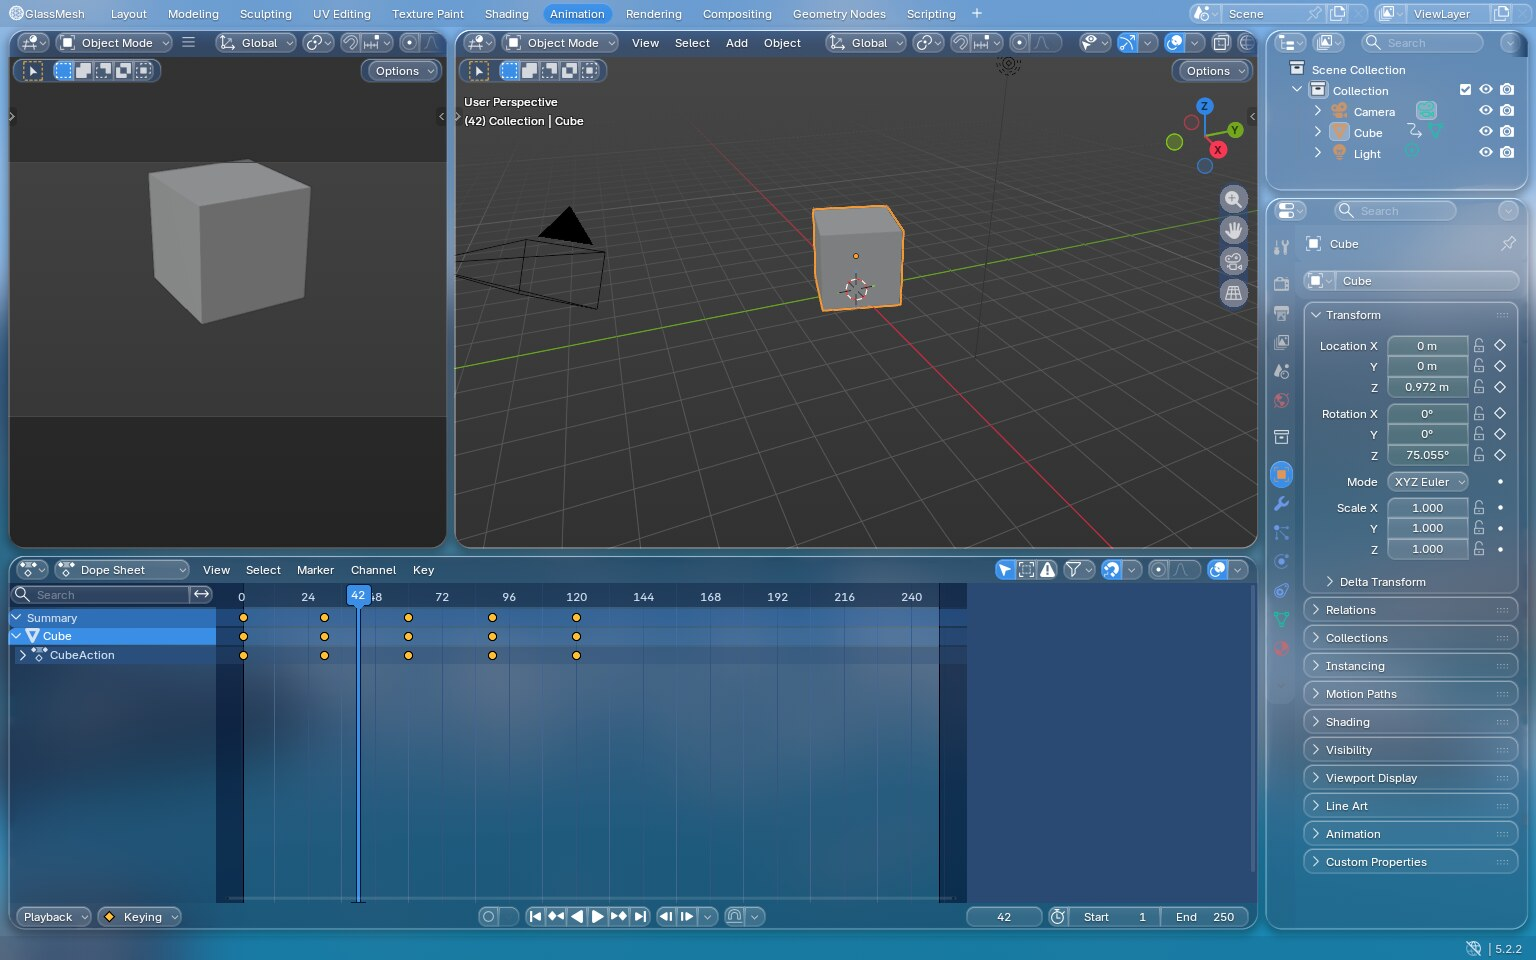
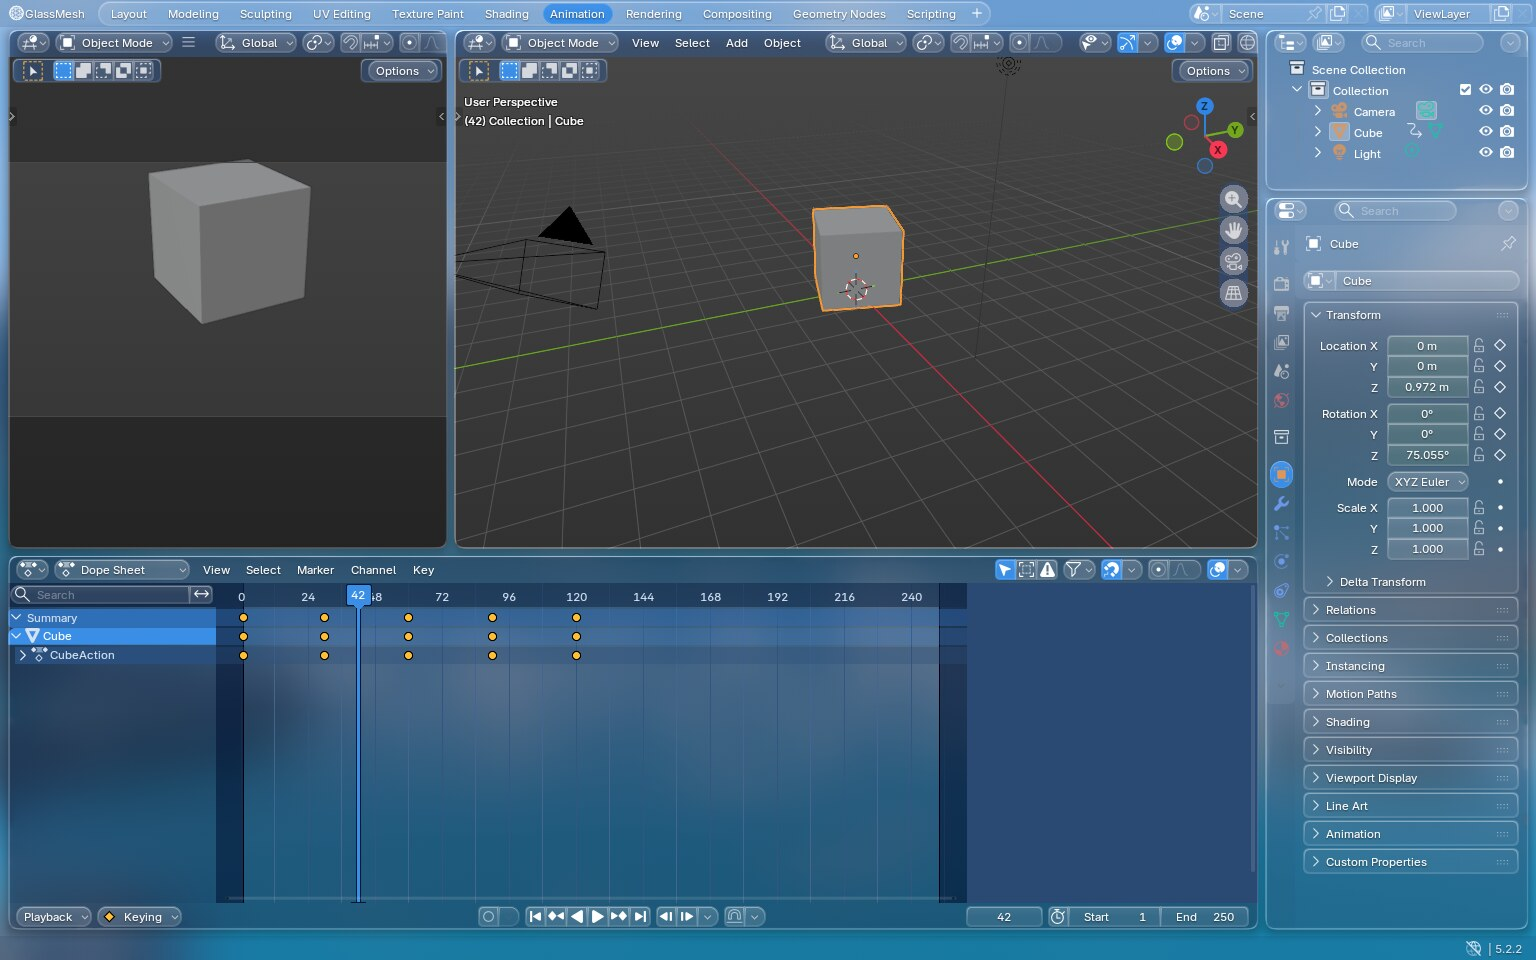
GlassMesh: Document the fourth design pass
Claude-Session: https://claude.ai/code/session_01L2QAqNNqWKW6my8jZ25rcy

Changed region(s): [[0.0938, 0.0, 0.625, 0.0625], [0.9688, 0.0312, 1.0, 0.0625], [0.8125, 0.0312, 0.8438, 0.0625]]

diff --git a/GLASSMESH_NOTES.md b/GLASSMESH_NOTES.md
@@ -19,7 +19,7 @@ sharper and faster). The viewports show Blender's default scenes on a neutral ba
 | ![Animation](docs/glassmesh/animation.jpg) | ![Sculpting](docs/glassmesh/sculpting.jpg) |
 | Animation | Sculpting |
 | ![Frosted menu](docs/glassmesh/frosted_menu.jpg) | ![Preferences](docs/glassmesh/preferences.jpg) |
-| Frosted menu over the 3D viewport | Preferences, with switches and the Glass settings |
+| Frosted menu over the 3D viewport | Preferences over the main window, its glass shows it |
 | ![About](docs/glassmesh/about.jpg) | ![Glass off](docs/glassmesh/glass_off_blender_dark.jpg) |
 | About GlassMesh | Glass effect off + Blender Dark preset = classic look |
 
@@ -52,7 +52,8 @@ sharper and faster). The viewports show Blender's default scenes on a neutral ba
   a region's alpha), `GPU_SHADER_2D_GLASS_WALLPAPER` (draws and pre-blurs the wallpaper) and
   `GPU_SHADER_2D_GLASS_CARD` (an editor as a pane of glass: drop shadow, body with vibrancy,
   refraction and a lit bevel, and the edge with the specular rim and rounded corners).
-- `shaders/gpu_shader_2D_widget_base.bsl.hh` – rim highlight and sheen for all widgets.
+- `shaders/gpu_shader_2D_widget_base.bsl.hh` – rim highlight, sheen and continuous (superellipse)
+  corners for glass widgets.
 - `GPU_shader_builtin.hh`, `intern/gpu_shader_builtin.cc`, `CMakeLists.txt` – registration.
 
 **3D viewport** (`source/blender/draw/engines/overlay/`) – content stays opaque (the see-through
@@ -66,7 +67,8 @@ background of test builds was removed: `TH_BACKGROUND_GLASS_LEGACY` in `DNA_them
 **Window compositing** (`source/blender/windowmanager/`)
 
 - `intern/wm_draw_glass.cc` (new) – window capture and live blurred backdrop per region, the
-  editors' glass cards (shadows and bodies) before the editors are drawn.
+  editors' glass cards (shadows and bodies) before the editors are drawn, and what is behind each
+  window (a frosted copy of the parent window for child windows, the wallpaper on the desktop).
 - `intern/wm_draw.cc` – draws the frosted window background and the glass cards, blends
   translucent editors over them, and draws the live frosted backdrop under overlapping regions
   (headers, tool-bars, side-bars) and floating regions (menus, popups, tool-tips).
@@ -76,8 +78,8 @@ background of test builds was removed: `TH_BACKGROUND_GLASS_LEGACY` in `DNA_them
 **Interface drawing** (`source/blender/editors/`)
 
 - `include/UI_glass.hh` (new) – glass settings (radius, blur radius, rim/sheen strength) and helpers.
-- `interface/interface_widgets.cc` – rim & sheen defaults, pill tabs, tool tiles, on/off switches,
-  no double highlights on multi-pass widgets.
+- `interface/interface_widgets.cc` – rim & sheen defaults, continuous corners, pill tabs, square
+  tool tiles, on/off switches, accent hover in menus, no double highlights on multi-pass widgets.
 - `interface/interface_layout.cc`, `include/UI_interface_layout.hh`, `include/UI_interface_c.hh` –
   which checkboxes are drawn as switches (`BUT_GLASS_SWITCH`).
 - `interface/interface_draw.cc` – `draw_roundbox_4fv_glass()`, all 12 widget parameters uploaded.
@@ -87,7 +89,11 @@ background of test builds was removed: `TH_BACKGROUND_GLASS_LEGACY` in `DNA_them
 - `interface/resources.cc` – translucent (pre-multiplied) region background clears with glass.
 - `screen/screen_draw.cc`, `screen/screen_intern.hh` – the editors' glass edges (rounded corners
   and specular rim) instead of the flat gaps, larger corner radius.
-- `screen/area.cc` – margins around the glass cards at the window edges and below the top bar.
+- `screen/area.cc` – margins around the glass cards at the window edges and below the top bar,
+  also in windows with a single editor, overflow hints that fade into frost.
+- `include/ED_screen.hh` – `ED_screen_glass_cards_visible()`.
+- `interface/interface.cc` – the glass capsule behind the top bar's workspace tabs.
+- `space_file/file_draw.cc` – translucent rows and column header in the file browser.
 - `space_outliner/outliner_draw.cc` – pill shaped row highlights, no row stripes with glass.
 - `space_view3d/view3d_gizmo_navigate.cc` – glass circles behind the navigation buttons.
 - `space_node/node_intern.hh`, `space_node/node_draw.cc` – rounder node corners and a glass rim
@@ -240,13 +246,17 @@ These can only be changed by you, on github.com:
    and node canvas must never show the wallpaper.
 8. **macOS fonts:** on a fresh start the interface should use the system font (SF Pro). If it looks
    wrong, clear *Preferences > Interface > Text Rendering > Interface Font*.
-9. **Other editors:** Outliner, Properties, node editors, Dope Sheet/Graph Editor, Text Editor,
+9. **Windows behind windows:** open the preferences and move them over the 3D viewport and the
+   properties editor: their glass should take the colors of what is behind them, and follow
+   changes in the main window (orbit the view). On Wayland this is expected not to work (no
+   window positions).
+10. **Other editors:** Outliner, Properties, node editors, Dope Sheet/Graph Editor, Text Editor,
    Preferences window, file browser. Look for readability and drawing glitches.
-10. **HiDPI / scaling:** *Resolution Scale* 1.0 and 2.0, a Retina/4K display, several windows,
+11. **HiDPI / scaling:** *Resolution Scale* 1.0 and 2.0, a Retina/4K display, several windows,
     resizing windows.
-11. **Files:** open and save `.blend` files and make sure they still work in official Blender 5.2
+12. **Files:** open and save `.blend` files and make sure they still work in official Blender 5.2
     (and the other way round).
-12. **Desktop integration:** *Preferences > System > Operating System Settings > Register* (Linux
+13. **Desktop integration:** *Preferences > System > Operating System Settings > Register* (Linux
     and Windows), then check the `.blend` file association, the dock/taskbar icon and window
     grouping. **Windows:** taskbar pinning and `glassmesh-launcher.exe`.
 
@@ -256,3 +266,6 @@ These can only be changed by you, on github.com:
   the top bar's empty space, and the File/Edit/... menus in the native menu bar.
 - Regenerating the macOS `Assets.car` in Xcode from `glassmesh_logo.svg`.
 - Offering to import settings from a regular Blender installation on first start.
+- The real desktop behind the window (DECISIONS.md #76): a transparent window with the system's
+  own blur (`NSVisualEffectView` on macOS, DWM backdrops on Windows, ARGB + compositor on Linux),
+  the frame drawn with alpha instead of the wallpaper. Needs testing on each system.

diff --git a/DECISIONS.md b/DECISIONS.md
@@ -302,3 +302,42 @@ glass.
     (72% instead of 81%) with a more vivid blur behind and a deeper shadow. Panels without a
     header (like the properties editor's context path) drew the editor color fully opaque, with
     glass they use the panel glass instead.
+
+## Fourth pass: polish
+
+The third pass was judged "pretty good". Still to fix: the timeline and the preferences looked
+more like Mica than frosted glass, a dark shadow at the top right of the outliner, tool buttons
+that looked squashed instead of being squircles, and windows should show what is behind them.
+
+69. **Continuous corners.** Glass widgets and editor cards have superellipse corners (exponent 4),
+    like Apple's continuous corners, instead of circular arcs. Pill shaped widgets (a radius of
+    half their height) keep their round ends.
+70. **Square tool tiles.** Icon-only tools are square tiles (they were 38 x 31 px), like app
+    icons. Tools with labels (a wide tool-bar) keep the width of the button.
+71. **Frosted, not tinted.** The glass of the cards replaces half of what is behind it with its
+    average color, which is how frosted glass scatters light. Big light and dark shapes of the
+    wallpaper no longer show through the timeline and other large editors almost unchanged,
+    which is what made them look like Mica.
+72. **The dark shadow** was Blender's hint that a header has more buttons than fit: a fade to the
+    header color at full opacity. With glass it fades into a light frost instead.
+73. **Every window is glass.** Windows with a single editor (preferences, file browser, render
+    view) had no card and only showed the blurred wallpaper, which is exactly Mica. Their editor is
+    now a glass card with the window glass around it, like in the main window.
+74. **Windows show what is behind them.** A window in front of its parent GlassMesh window shows a
+    frosted copy of it where it covers it, and the wallpaper around it, so the preferences over
+    the 3D viewport look gray and over the properties editor look blue. While a window has child
+    windows it keeps a small blurred copy of its last frame, and redraws them when it changes. The
+    wallpaper is placed on the desktop instead of on each window, so it lies still behind moving
+    windows. This needs window positions, which Wayland doesn't give, there the wallpaper covers
+    each window as before.
+75. **Tab bar.** The workspace tabs of the top bar sit in one glass capsule, like the tab bars of
+    all the mockups. Hovered menu and search items are accent blue instead of an opaque gray bar,
+    file browser rows are a light veil instead of opaque stripes, and the text editor and Python
+    console are 84% opaque so code stays easy to read.
+76. **Not done: the real desktop behind GlassMesh.** Showing the actual desktop and other
+    applications behind the GlassMesh window needs a transparent window from the operating
+    system: `NSVisualEffectView` and a non-opaque Metal layer on macOS, DWM backdrops on Windows,
+    an ARGB window and a compositor on Linux. Each needs the renderer to hand over alpha, and a
+    mistake gives an invisible or black window. None of it can be run in the environment
+    GlassMesh is developed in (no compositor, no Mac or Windows), so it was left for a pass that
+    can be tested on each system. The wallpaper stays the stand-in for the desktop.

diff --git a/README.md b/README.md
@@ -14,8 +14,8 @@ GlassMesh is [Blender](https://www.blender.org) 5.2 LTS with a translucent, Appl
 "Liquid Glass" inspired interface: editors are panes of glass floating over a frosted wallpaper,
 with specular rims, light caught in their edges and soft drop shadows, a real background blur
 behind toolbars, headers, menus and popups, larger rounded corners, pill shaped tabs and iOS style
-switches. The 3D viewport, image editor and node canvas stay opaque and neutral, so colors are
-seen as they are. Everything else is Blender: the same tools, the same Python API, the same add-ons
+switches. Windows show the GlassMesh window behind them, frosted. The 3D viewport, image editor
+and node canvas stay opaque and neutral, so colors are seen as they are. Everything else is Blender: the same tools, the same Python API, the same add-ons
 and full `.blend` file compatibility.
 
 - The glass effect can be switched off in **Preferences > Interface > Display > Glass Effect**
